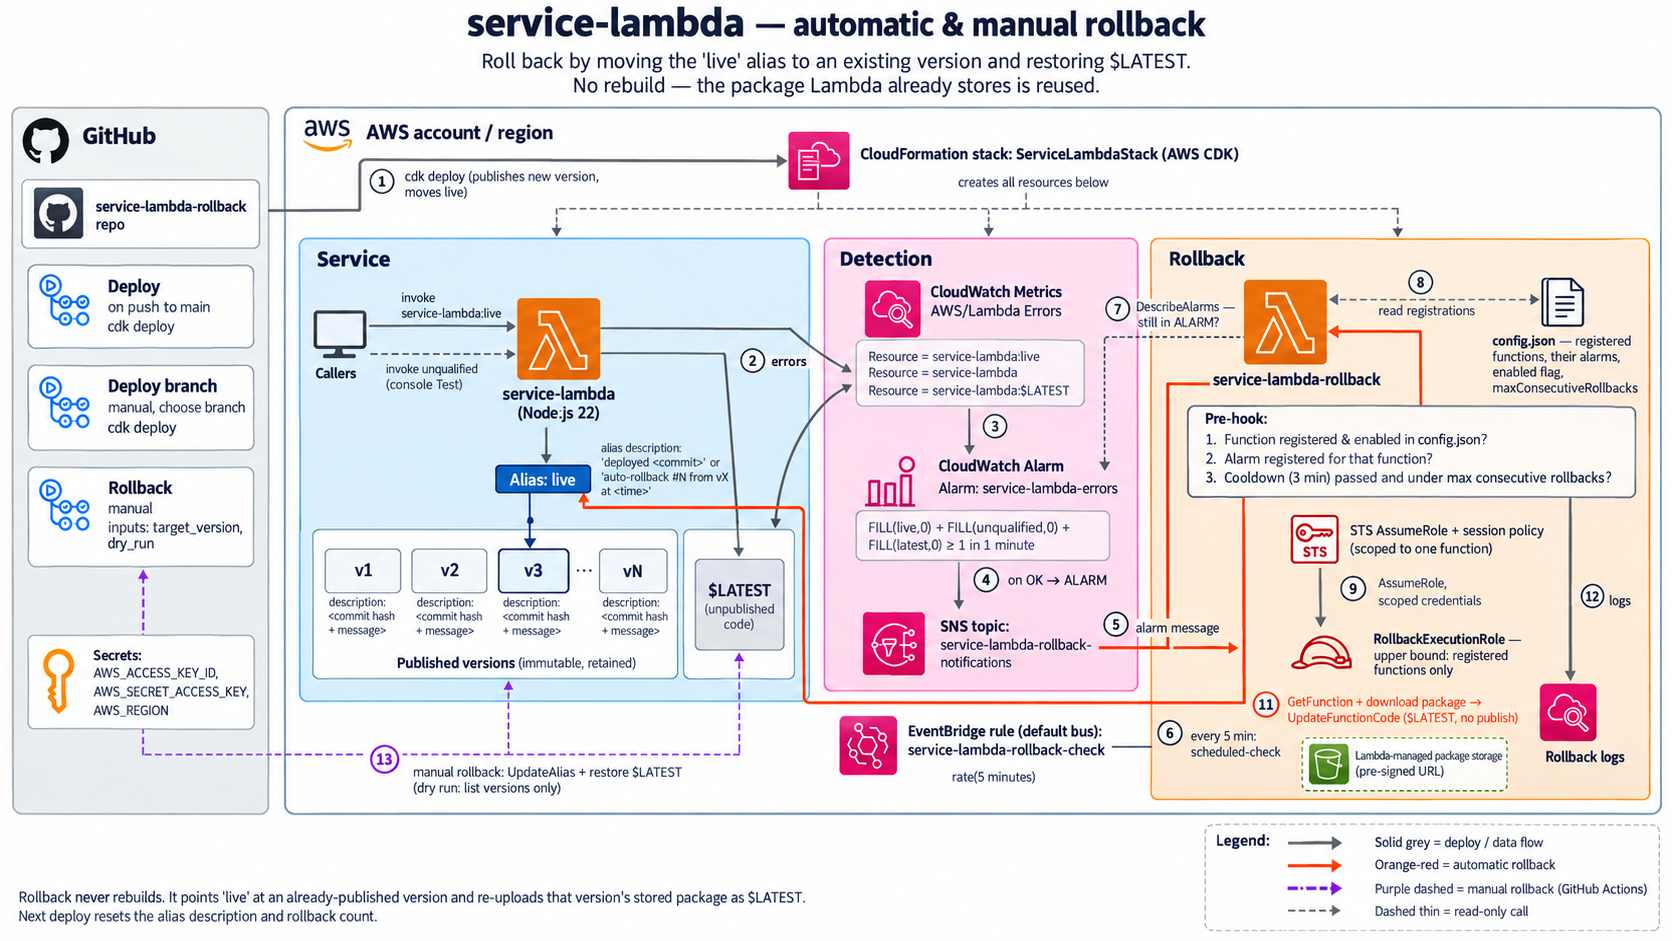
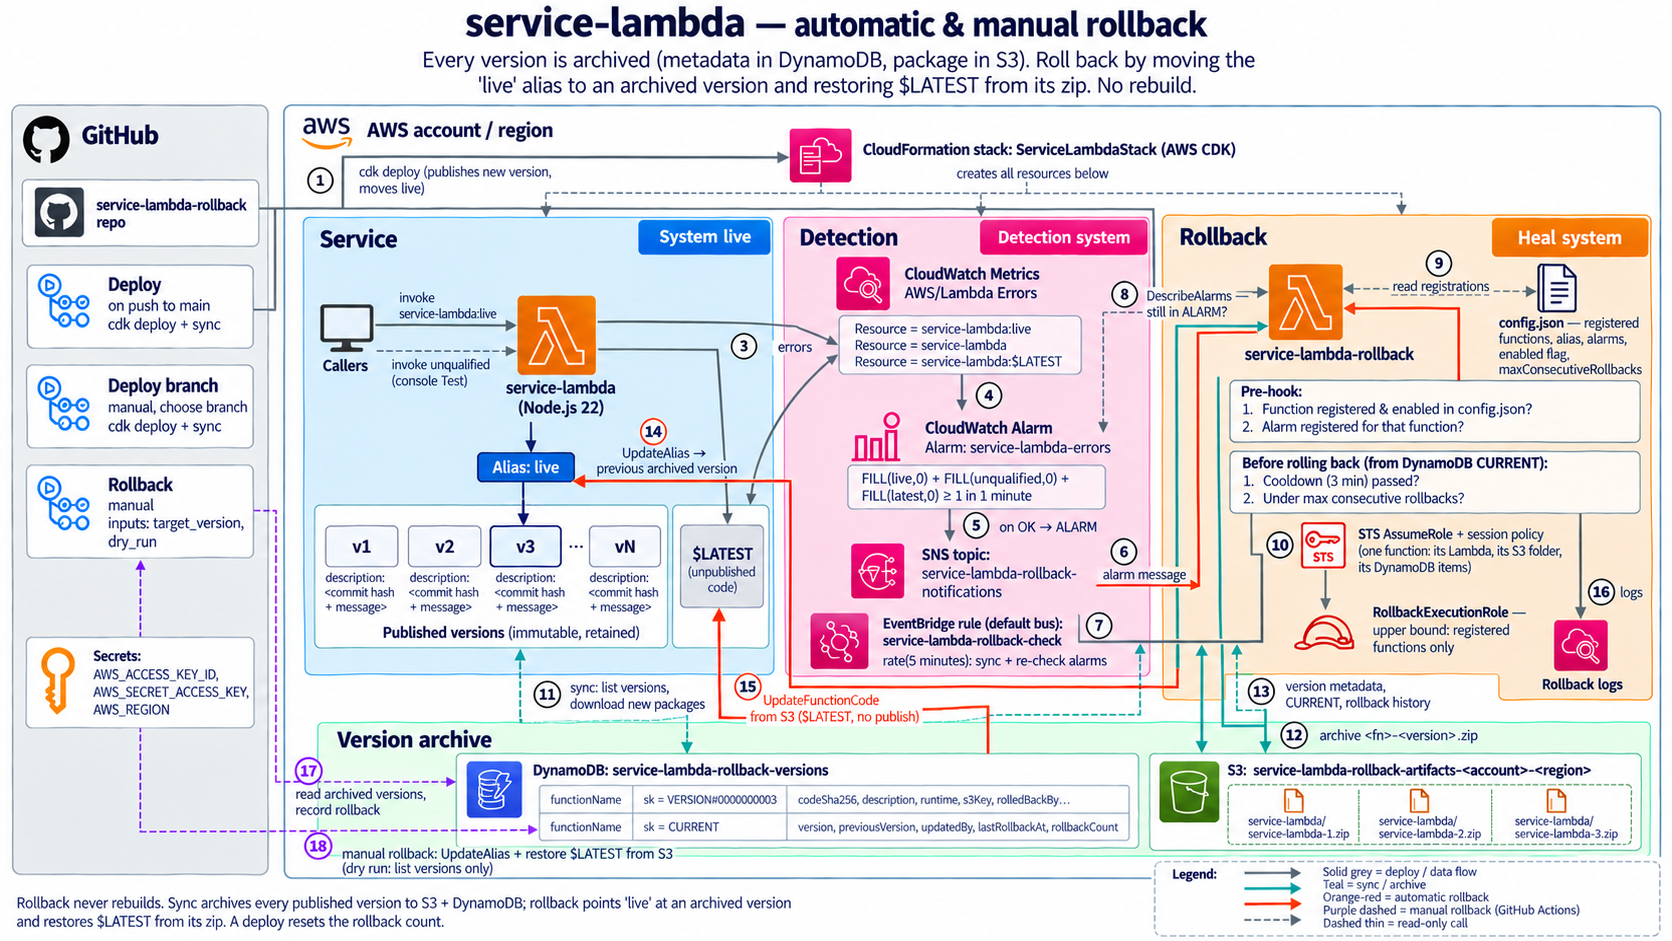
Update architecture diagram for the DynamoDB/S3 version archive

diff --git a/README.md b/README.md
@@ -7,9 +7,6 @@ archived version and restores `$LATEST` from that version's zip.
 
 ![Architecture](docs/arch-diagram.png)
 
-> The diagram predates the DynamoDB/S3 archive. Regenerate it from
-> [docs/ARCHITECTURE_IMAGE_PROMPT.md](docs/ARCHITECTURE_IMAGE_PROMPT.md).
-
 ## How it works
 
 **Deploy.** Every deploy that changes the function's code or configuration publishes a new, immutable
